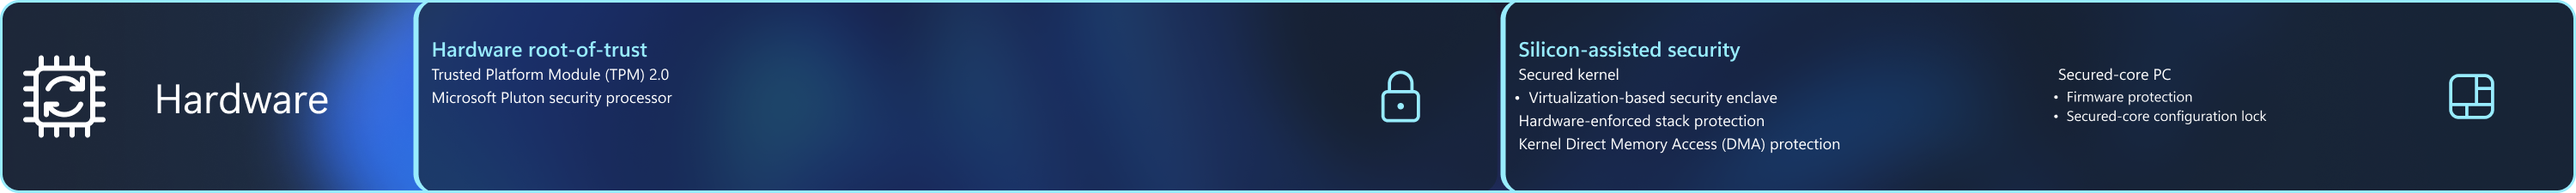
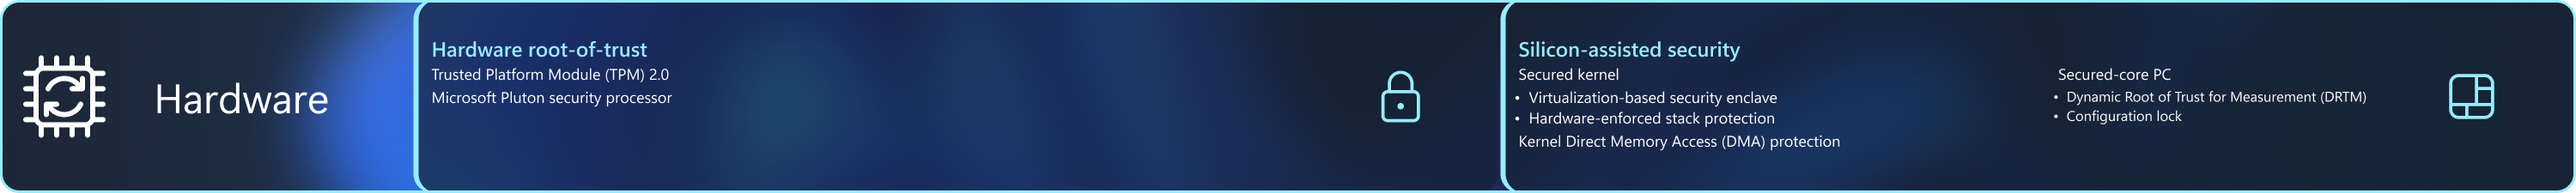
updates

diff --git a/windows/security/book/hardware-security-silicon-assisted-security.md b/windows/security/book/hardware-security-silicon-assisted-security.md
@@ -37,16 +37,16 @@ A **Virtualization-based security enclave** is a software-based trusted executio
 - [Hypervisor-protected Code Integrity (HVCI)](/windows/security/hardware-security/enable-virtualization-based-protection-of-code-integrity)
 - [Virtualization-based security enclave](/windows/win32/trusted-execution/vbs-enclaves)
 
-## Hardware-enforced stack protection
+### Hardware-enforced stack protection
 
-Hardware-enforced stack protection integrates software and hardware for a modern defense against cyberthreats like memory corruption and zero-day exploits. Based on Control- flow Enforcement Technology (CET) from Intel and AMD Shadow Stacks, hardware-enforced stack protection is designed to protect against exploit techniques that try to hijack return addresses on the stack.
+Hardware-enforced stack protection integrates software and hardware for a modern defense against cyberthreats like memory corruption and zero-day exploits. Based on Control-flow Enforcement Technology (CET) from Intel and AMD Shadow Stacks, hardware-enforced stack protection is designed to protect against exploit techniques that try to hijack return addresses on the stack.
 
 Application code includes a program processing stack that hackers seek to corrupt or disrupt in a type of attack called *stack smashing*. When defenses like executable space protection began thwarting such attacks, hackers turned to new methods like return-oriented programming. Return-oriented programming, a form of advanced stack smashing, can bypass defenses, hijack the data stack, and ultimately force a device to perform harmful operations. To guard against these control-flow hijacking attacks, the Windows kernel creates a separate *shadow stack* for return addresses. Windows 11 extends stack protection capabilities to provide both user mode and kernel mode support.
 
 :::image type="icon" source="images/learn-more.svg" border="false"::: **Learn more:**
 
 - [Understanding Hardware-enforced Stack Protection](https://techcommunity.microsoft.com/t5/windows-os-platform-blog/understanding-hardware-enforced-stack-protection/ba-p/1247815)
-- [Developer Guidance for Hardware-enforced Stack Protection](https://techcommunity.microsoft.com/t5/windows-kernel-internals/developer-guidance-for-hardware-enforced-stack-protection/ba-p/2163340)
+- [Developer Guidance for hardware-enforced stack protection](https://techcommunity.microsoft.com/t5/windows-kernel-internals/developer-guidance-for-hardware-enforced-stack-protection/ba-p/2163340)
 
 ## Kernel Direct Memory Access (DMA) protection
 
@@ -66,22 +66,25 @@ Secured-core PCs provide multiple layers of robust protection against hardware a
 
 Thousands of PC vendors produce numerous device models with diverse UEFI firmware components, which in turn creates an incredibly large number of SRTM signatures and measurements at bootup. Because these signatures and measurements are inherently trusted by Secure Boot, it can be challenging to constrain trust to only what is needed to boot on any specific device. Traditionally, blocklists and allowlists were the two main techniques used to constrain trust, and they continue to expand if devices rely only on SRTM measurements.
 
-In Secured-core PCs, [System Guard Secure Launch](/windows/security/hardware-security/system-guard-secure-launch-and-smm-protection) protects bootup with a technology known as the Dynamic Root of Trust for Measurement (DRTM). With DRTM, the system initially follows the normal UEFI Secure Boot process. However, before launching, the system enters a hardware-controlled trusted state that forces the CPU down a hardware-secured code path. If a malware rootkit or bootkit bypasses UEFI Secure Boot and resides in memory, DRTM prevents it from accessing secrets and critical code protected by the Virtualization-based security environment. [Firmware Attack Surface Reduction (FASR) technology](/windows-hardware/drivers/bringup/firmware-attack-surface-reduction) can be used instead of DRTM on supported devices, such as Microsoft Surface.
+### Dynamic Root of Trust for Measurement (DRTM)
 
-System Management Mode (SMM) isolation is an execution mode in x86-based processors that runs at a higher effective privilege than the hypervisor. SMM complements the protections provided by DRTM by helping to reduce the attack surface. Relying on capabilities provided by silicon providers like Intel and AMD, SMM isolation enforces policies that implement restrictions such as preventing SMM code from accessing OS memory. The SMM isolation policy is included as part of the DRTM measurements that can be sent to a verifier like Microsoft Azure Remote Attestation.
+In Secured-core PCs, System Guard Secure Launch protects bootup with a technology known as the *Dynamic Root of Trust for Measurement (DRTM)*. With DRTM, the system initially follows the normal UEFI Secure Boot process. However, before launching, the system enters a hardware-controlled trusted state that forces the CPU down a hardware-secured code path. If a malware rootkit or bootkit bypasses UEFI Secure Boot and resides in memory, DRTM prevents it from accessing secrets and critical code protected by the Virtualization-based security environment. Firmware Attack Surface Reduction (FASR) technology can be used instead of DRTM on supported devices, such as Microsoft Surface.
+
+System Management Mode (SMM) isolation is an execution mode in x86-based processors that runs at a higher effective privilege than the hypervisor. SMM complements the protections provided by DRTM by helping to reduce the attack surface. Relying on capab ilities provided by silicon providers like Intel and AMD, SMM isolation enforces policies that implement restrictions such as preventing SMM code from accessing OS memory. The SMM isolation policy is included as part of the DRTM measurements that can be sent to a verifier like Microsoft Azure Remote Attestation.
 
 :::image type="content" source="images/secure-launch.png" alt-text="Diagram of secure launch components." lightbox="images/secure-launch.png" border="false":::
 
 :::image type="icon" source="images/learn-more.svg" border="false"::: **Learn more:**
 
-- [Dynamic Root of Trust measure and SMM isolation](https://www.microsoft.com/security/blog/2020/09/01/force-firmware-code-to-be-measured-and-attested-by-secure-launch-on-windows-10/)
-- [Secured-core PC firmware protection](/windows-hardware/design/device-experiences/oem-highly-secure-11)
+- [System Guard Secure Launch](/windows/security/hardware-security/system-guard-secure-launch-and-smm-protection)
+- [Firmware Attack Surface Reduction](/windows-hardware/drivers/bringup/firmware-attack-surface-reduction)
+- [Windows 11 Secured-core PCs](/windows-hardware/design/device-experiences/oem-highly-secure-11)
 
 ### Configuration lock
 
 In many organizations, IT administrators enforce policies on their corporate devices to protect the OS and keep devices in a compliant state by preventing users from changing configurations and creating configuration drift. Configuration drift occurs when users with local admin rights change settings and put the device out of sync with security policies. Devices in a noncompliant state can be vulnerable until the next sync, when configuration is reset with the device management solution.
 
-Configuration lock is a Secured-core PC (SCPC) feature that prevents users from making unwanted changes to security settings. With configuration lock, Windows monitors supported registry keys and reverts to the IT-desired SCPC state in seconds after detecting a drift.
+Configuration lock is a Secured-core PC feature that prevents users from making unwanted changes to security settings. With configuration lock, Windows monitors supported registry keys and reverts to the IT-desired Secured-core PC's state in seconds after detecting a drift.
 
 :::image type="icon" source="images/learn-more.svg" border="false"::: **Learn more:**
 
